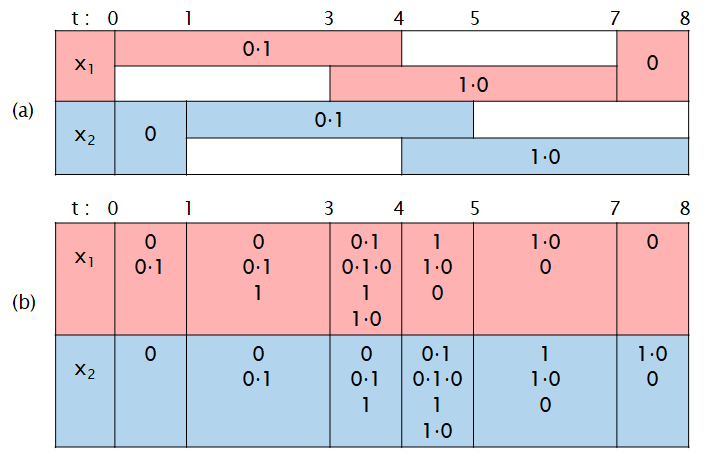
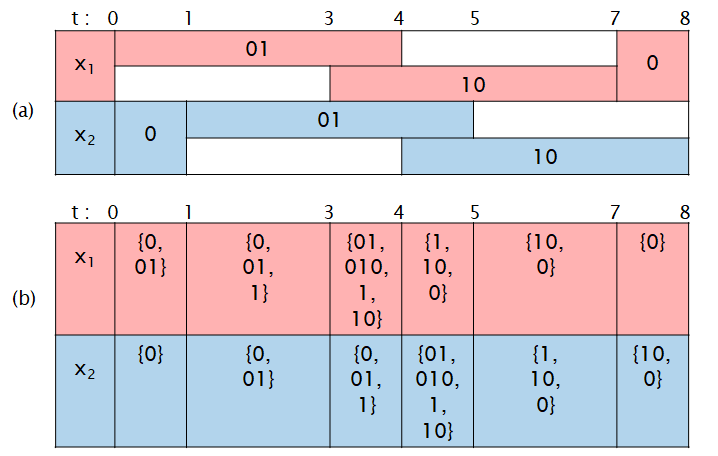
comments addressed

diff --git a/tex/approach.tex b/tex/approach.tex
@@ -33,7 +33,7 @@ By extension, a segmentation of a collection of signals with the same temporal d
 Let $(S,{\hb})$ be a distributed signal of $n$ signals.
 The \emph{canonical segmentation} $G_S$ of $(S,{\hb})$ is the segmentation of $S$ where the end points of the segments coincide with the end points of its temporal domain and uncertainty regions.
 Formally, we define $G_S$ as follows.
-For each signal $x_i$, \borzoo{where $1 \leq i \leq n$,} let $F_i$ be the set of end points of its 
+For each signal $x_i$, where $1 \leq i \leq n$, let $F_i$ be the set of end points of its 
 uncertainty regions.
 %Let $d' = \max(d, \max (\bigcup_{i = 1}^{n} F_i))$, which corresponds to the duration of the distributed signal with respect to the monitor's clock.
 %
@@ -61,15 +61,16 @@ Then, the canonical segmentation of $(S,{\hb})$ is $G_S = \{I_1, \ldots, I_{|F| 
 \subsubsection{Value Expressions}
 Consider a boolean signal $x$ with a rising edge with an uncertainty region of $(t_1, t_2)$.
 As discussed above, the monitor only knows that the value of $x$ changes from 0 to 1 in this interval.
-We represent this knowledge as a finite word $v = 0 \cdot 1$.
+We represent this knowledge as a finite word $v = 01$ over the alphabet $\Sigma = \{0,1\}$.
 This representation is called a \emph{value expression} and it encodes the uncertain behavior of an observed signal relative to the monitor.
 Formally, a value expression is an element of $\Sigma^*$ where $\Sigma$ is the finite alphabet of values the signal takes.
 Given a signal $x$ and an edge $(t, x(t))$, the value expression corresponding to the uncertainty region $(\theta_{\text{lo}}(x,t), \theta_{\text{hi}}(x,t))$ is given by $v_{x,t} = v_- \cdot v_+$ where $v_- = \lim_{s \to t^-} x(s)$ and $v_+ = \lim_{s \to t^+} x(s)$.
+When drop the concatenation symbol $\cdot$ when the letters are clear from the context.
 Let us remark that this definition is general because finite-length piecewise-constant real-valued signals will only have a finite number of values, making $\Sigma$ finite.
 
 Notice that (i) uncertainty regions may overlap, and (ii) the canonical segmentation may split an uncertainty region into multiple segments.
 Consider a signal $x$ with a rising edge in $(1,5)$ and a falling edge in $(4,8)$.
-The corresponding value expressions are respectively $v_1 = 0 \cdot 1$ and $v_2 = 1 \cdot 0$.
+The corresponding value expressions are respectively $v_1 = 01$ and $v_2 = 10$.
 Notice that the behavior of $x$ in the interval $[1,4)$ can be expressed as $\pfx(v_1)$, encoding whether the rising edge has happened yet or not.
 Similarly, the behavior in $[4,5)$ is given by $\sfx(v_1) \cdot \pfx(v_2)$, which captures whether the edges occur in this interval (thanks to prefixing and suffixing) and the fact that the rising edge happens before the falling edge (thanks to concatenation).
 
@@ -89,7 +90,7 @@ Now, let $I \in G_S$ be a segment with $I = [s, s')$ and for each $1 \leq i \leq
 	\end{cases}
 \end{equation}
 \normalsize
-\borzoo{Can we define destutter like this too?}The last case happens only when $I \cap R_i$ is 
+The last case happens only when $I \cap R_i$ is 
 empty.
 We finally define $\gamma$ as follows:
 \[ \gamma(x,I) = \destutter(V_1 \cdot V_2 \cdot \ldots \cdot V_m) \setminus \{\epsilon\} \]
@@ -101,11 +102,10 @@ This is mainly because the sets $V_1, \ldots, V_m$ contain redundancy by definit
 \begin{example} \label{ex:valexpr}
 	Recall the distributed signal $(S, {\hb})$ in \cref{ex:canonseg} and \cref{fig:canonseg}.
 	In \cref{fig:valexpr}a, we show the value expressions corresponding to its uncertainty regions.
-	For example, the falling edge of $x_1$ has an uncertainty region of $(3,7)$, represented by the value expression $1 \cdot 0$.
+	For example, the falling edge of $x_1$ has an uncertainty region of $(3,7)$, represented by the value expression $10$.
 	In \cref{fig:valexpr}b, we give the function $\gamma$ for $(S, {\hb})$.
-	For example, $\gamma(x_1, [3,4))$ is obtained from $\sfx(0 \cdot 1) \cdot \pfx(1 \cdot 0)$ and 
-	$\gamma(x_2, [0,1)) = \{0\}$.\borzoo{I would put the value expressions in a set in Fig 2.b, also 
-	write the full set in text like you did for $x_2$, i.e., $\gamma(x_1, [3,4)) = \{0.1, 0.1.0, 1, 1.0\}$.}
+	For example, $\gamma(x_1, [3,4)) = (\sfx(01) \cdot \pfx(10)) \setminus \{\epsilon\} = \{ 01, 010, 1, 10\}$, and 
+	$\gamma(x_2, [0,1)) = \{0\}$.
 \end{example}
 
 \begin{figure} 
@@ -146,15 +146,14 @@ Now, let $S = (x_1, \ldots, x_n)$ and define $\tr^+(S,{\hb})$ as follows:
 \begin{example} \label{ex:overapx}
 	Recall the distributed signal $(S, {\hb})$ in \cref{ex:canonseg} whose $\gamma$ function is given in \cref{fig:valexpr}b.
 	Consider the synchronous trace $w \in \tr(S, {\hb})$ where the rising edges of both signals occur at time 3 and the falling edges at time 5.
-	One can verify that $w \in \tr^+(S,{\hb})$ since for each $i \in \{1,2\}$ the value expression 1 is contained in $\gamma(x_i, [3,4))$ and $\gamma(x_i, [4,5))$ while 0 is contained in the remaining sets $\gamma$ maps $x_i$ to.
-	\borzoo{I would say a signal such as $w$ would be included $\tr^+$.}
+	A signal such as $w$ would be included in $\tr^+(S,{\hb})$ since for each $i \in \{1,2\}$ the value expression 1 is contained in $\gamma(x_i, [3,4))$ and $\gamma(x_i, [4,5))$ while 0 is contained in the remaining sets $\gamma$ maps $x_i$ to.
 	Now, consider a synchronous trace $(x_1', x_2')$ where both signals are initially 0, have rising edges at time 2 and 3.5, and falling edges at time 3 and 5.
 	Evidently, this trace does not belong to $\tr(S, {\hb})$ since $x_1'$ and $x_2'$ have more edges than $x_1$ and $x_2$.
 	Nonetheless, it belongs to $\tr^+(S,{\hb})$ since $x_1'$ and $x_2'$ are respectively consistent with $x_1$ and $x_2$.
-	To witness, notice that for each $i \in \{1,2\}$ the value expression $0 \cdot 1$ is contained in $\gamma(x_i, [1,3))$ and $\gamma(x_i, [3,4))$, the expression $1$ is contained in $\gamma(x_i, [4,5))$, and 0 is contained in the remaining sets $\gamma$ maps $x_i$ to.
+	To witness, notice that for each $i \in \{1,2\}$ the value expression $01$ is contained in $\gamma(x_i, [1,3))$ and $\gamma(x_i, [3,4))$, the expression $1$ is contained in $\gamma(x_i, [4,5))$, and 0 is contained in the remaining sets $\gamma$ maps $x_i$ to.
 \end{example}
 
-Finally, we prove $\tr^+$ overapproximates $\tr$.
+Finally, we prove that $\tr^+$ overapproximates $\tr$.
 
 \begin{lemma} \label{cl:trsound}
 	For every distributed signal $(S,{\hb})$, we have $\tr(S,{\hb}) \subseteq \tr^+(S,{\hb})$.

diff --git a/tex/preliminaries.tex b/tex/preliminaries.tex
@@ -25,19 +25,43 @@ Moreover, given $L \subseteq \Sigma^*$, we define $\first(L) = \{ u[0] \st u \in
 For sets $L_1, L_2 \subseteq \Sigma^*$ of words, we let $L_1 \cdot L_2 = \{u \cdot v \st u \in L_1, v \in L_2\}$.
 For tuples $(u_1, \ldots, u_m)$ and $(v_1, \ldots, v_m)$ of words, we let $(u_1, \ldots, u_m) \cdot (v_1, \ldots, v_m) = (u_1 v_1, \ldots, u_m v_m)$.
 
-We define the function $\destutter : \Sigma^* \to \Sigma^*$ inductively as follows.
+We define the function $\destutter : \Sigma^* \to \Sigma^*$ inductively.
 For all $\sigma \in \Sigma \cup \{\epsilon\}$, let $\destutter(\sigma) = \sigma$.
-%
 For all $u \in \Sigma^*$ such that $u = \sigma_1 \sigma_2 v$ for some $\sigma_1,\sigma_2 \in 
-\Sigma$ and $v \in \Sigma^*$, let (i) $\destutter(u) = \destutter(\sigma_2 v)$ if $\sigma_1 = 
-\sigma_2$, and (ii) $\destutter(u) = \sigma_1 \cdot \destutter(\sigma_2 v)$ otherwise.
-%
-By extension, for a set $L \subseteq \Sigma^*$ of finite words, we write $\destutter(L) = 
+\Sigma$ and $v \in \Sigma^*$, we define it as follows.
+
+\small
+\begin{equation*}
+	\destutter(u) =
+	\begin{cases}
+		\destutter(\sigma_2 v) & \text{if } \sigma_1 = \sigma_2 \\
+		\sigma_1 \cdot \destutter(\sigma_2 v) & \text{otherwise}
+	\end{cases}
+\end{equation*}
+\normalsize
+%For all $\sigma \in \Sigma \cup \{\epsilon\}$, let $\destutter(\sigma) = \sigma$.
+%%
+%For all $u \in \Sigma^*$ such that $u = \sigma_1 \sigma_2 v$ for some $\sigma_1,\sigma_2 \in 
+%\Sigma$ and $v \in \Sigma^*$, let (i) $\destutter(u) = \destutter(\sigma_2 v)$ if $\sigma_1 = 
+%\sigma_2$, and (ii) $\destutter(u) = \sigma_1 \cdot \destutter(\sigma_2 v)$ otherwise.
+%%
+For a set $L \subseteq \Sigma^*$ of finite words, we define $\destutter(L) = 
 \{\destutter(u) \st u \in L\}$.
 %
-Given a tuple $(u_1, \ldots, u_m) = (\sigma_{1,1} \sigma_{1,2} v_1, \ldots, \sigma_{m,1} \sigma_{m,2} v_m)$ of finite words of the same length, we define $\destutter(u_1, \ldots, u_m)$ as expected: (i) $\destutter(u_1, \ldots, u_m) = \destutter(\sigma_{1,2} v_1, \ldots, \sigma_{m,2} v_m)$ if $\sigma_{i,1} = 
-\sigma_{i,2}$ for all $1 \leq i \leq m$, and (ii) $\destutter(u_1, \ldots, u_m) = (\sigma_{1,1}, \ldots, \sigma_{m,1}) \cdot \destutter(\sigma_{1,2} v_1, \ldots, \sigma_{m,2} v_m)$ otherwise.
+To extend $\destutter$ to tuples of words, for all $\sigma \in \Sigma \cup \{\epsilon\}$  let $\destutter(\sigma, \ldots, \sigma) = (\sigma, \ldots, \sigma)$.
+Given a tuple $(u_1, \ldots, u_m) = (\sigma_{1,1} \sigma_{1,2} v_1, \ldots, \sigma_{m,1} \sigma_{m,2} v_m)$ of finite words of the same length, we define $\destutter(u_1, \ldots, u_m)$ as expected:
 
+\small
+\begin{equation*}
+	\destutter(u_1, \ldots, u_m) =
+	\begin{cases}
+		\destutter(\sigma_{1,2} v_1, \ldots, \sigma_{m,2} v_m) \text{ if $\sigma_{i,1} = \sigma_{i,2}$ for all $1 \leq i \leq m$} \\
+		(\sigma_{1,1}, \ldots, \sigma_{m,1}) \cdot \destutter(\sigma_{1,2} v_1, \ldots, \sigma_{m,2} v_m) \text{ otherwise}
+	\end{cases}
+\end{equation*}
+\normalsize
+%Given a tuple $(u_1, \ldots, u_m) = (\sigma_{1,1} \sigma_{1,2} v_1, \ldots, \sigma_{m,1} \sigma_{m,2} v_m)$ of finite words of the same length, we define $\destutter(u_1, \ldots, u_m)$ as expected: (i) $\destutter(u_1, \ldots, u_m) = \destutter(\sigma_{1,2} v_1, \ldots, \sigma_{m,2} v_m)$ if $\sigma_{i,1} = 
+%\sigma_{i,2}$ for all $1 \leq i \leq m$, and (ii) $\destutter(u_1, \ldots, u_m) = (\sigma_{1,1}, \ldots, \sigma_{m,1}) \cdot \destutter(\sigma_{1,2} v_1, \ldots, \sigma_{m,2} v_m)$ otherwise.
 
 Moreover, given an integer $k \geq 0$, we define $\stutter_k : \Sigma^* \to \Sigma^*$ such that $\stutter_k(u) = \{v \in \Sigma^* \st |v| = k \land \destutter(v) = \destutter(u)\}$ if $k \geq |\destutter(u)|$, and $\stutter_k(u) = \emptyset$ otherwise.
 

diff --git a/tex/algorithm.tex b/tex/algorithm.tex
@@ -16,7 +16,7 @@ represent and manipulate sets of Boolean value expressions.
 \end{remark}
 
 \subsubsection{Asynchronous Products}
-Consider the value expressions $u_1 = 0 \cdot 1$ and $u_2 = 1 \cdot 0$ encoding the behaviors of two signals within a segment.
+Consider the value expressions $u_1 = 01$ and $u_2 = 10$ encoding the behaviors of two signals within a segment.
 Due to partial asynchrony, the behaviors within segments can be seen as completely asynchronous.
 To capture the potential interleavings of these behaviors, we consider how the values in $u_1$ and $u_2$ can align.
 In particular, there are three potential alignments:
@@ -41,8 +41,8 @@ Asynchronous products of value expressions allow us to lift value expressions to
 	Recall the distributed signal $(S, {\hb})$ in \cref{ex:canonseg} and its $\gamma$ function given in \cref{fig:valexpr}b.
 	Suppose we want to compute the value expressions encoding the satisfaction of $x_1 \land x_2$ in the segment $[1,3)$.
 	We can achieve this by first computing the asynchronous product $\gamma(x_1, [3,4)) \otimes \gamma(x_2, [3,4))$, and then computing the bitwise conjunction of each pair in the set.
-	For example, considering the expression $0 \cdot 1 \cdot 0$ for $x_1$ and $0 \cdot 1$ for $x_2$, the product contains the pair $(010, 011)$.
-	Taking the bitwise conjunction of this pair gives us the expression $0 \cdot 1 \cdot 0$ as a potential behavior for the satisfaction of $x_1 \land x_2$ in this segment.
+	For example, considering the expression $010$ for $x_1$ and $01$ for $x_2$, the product contains the pair $(010, 011)$.
+	Taking the bitwise conjunction of this pair gives us the expression $010$ as a potential behavior for the satisfaction of $x_1 \land x_2$ in this segment.
 \end{example}
 
 \subsubsection{Untimed Operations}
@@ -179,13 +179,13 @@ We demonstrate this and the computation of $\mathsf{pfs}$ in \cref{ex:profiles} 
 	We demonstrate the computation of $\mathsf{pfs}((S,{\hb}), x_1, [1,3), [0,1))$.
 	Intuitively, sliding the interval $[0,1)$ over the window $[1,3) \oplus [0,1)$ (as shown in \cref{fig:profiles}) gives us the following sets:
 	\begin{align*}
-		P_1 &= \destutter(\pfx(\gamma(x_1, [1,3)))) = \{ 0, 01, 1 \}\\
+		P_1 &= \destutter(\pfx(\gamma(x_1, [1,3)))) \setminus \{\epsilon\} = \{ 0, 01, 1 \}\\
 %		&= \{ 0, 01, 1 \} \\
-		P_2 &= \destutter(\infx(\gamma(x_1, [1,3)))) = \{ 0, 01, 1 \} \\
+		P_2 &= \destutter(\infx(\gamma(x_1, [1,3)))) \setminus \{\epsilon\} = \{ 0, 01, 1 \} \\
 %		&= \{ 0, 01, 1 \} \\
-		P_3 &= \destutter(\sfx(\gamma(x_1, [1,3)))) = \{ 0, 01, 1 \} \\
+		P_3 &= \destutter(\sfx(\gamma(x_1, [1,3)))) \setminus \{\epsilon\} = \{ 0, 01, 1 \} \\
 %		&= \{ 0, 01, 1 \} \\
-		P_4 &= \destutter(\sfx(\gamma(x_1, [1,3))) \cdot \pfx(\gamma(x_1, [3,4)))) \\
+		P_4 &= \destutter(\sfx(\gamma(x_1, [1,3))) \cdot \pfx(\gamma(x_1, [3,4)))) \setminus \{\epsilon\} \\
 		&= \{ 0, 01, 010, 0101, 01010, 1, 10, 101, 1010 \}
 	\end{align*}
 	Therefore, we obtain $\mathsf{pfs}((S,{\hb}), x_1, [1,3), [0,1)) = \{P_1, P_2, P_3, P_4\}$.

diff --git a/tex/preamble.tex b/tex/preamble.tex
@@ -24,6 +24,6 @@
 	pdfstartview=Fit,          % open PDF viewer with side-pane hidden.
 	breaklinks=true,
 	% PDF metadata:
-	pdfauthor={Raven, Tzu-Han, Borzoo, Bernd},
-	pdftitle={{Syntax-Guided Automated Program Repair For Hyperproperties}}
+	pdfauthor={Borzoo, Anik, Dejan, Ege},
+	pdftitle={{Approximate Distributed Monitoring under Partial Synchrony}}
 }
